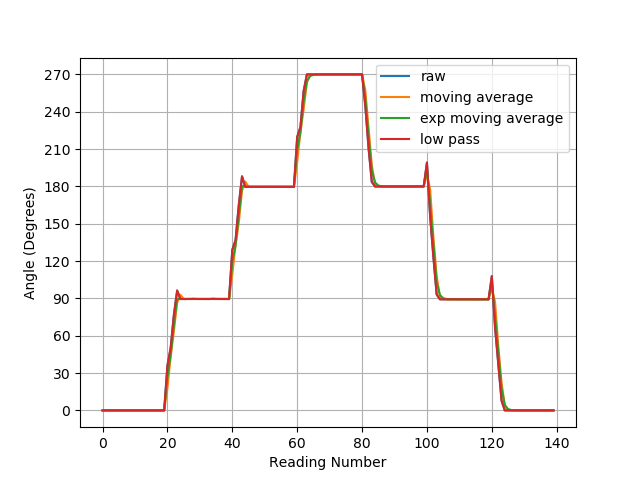
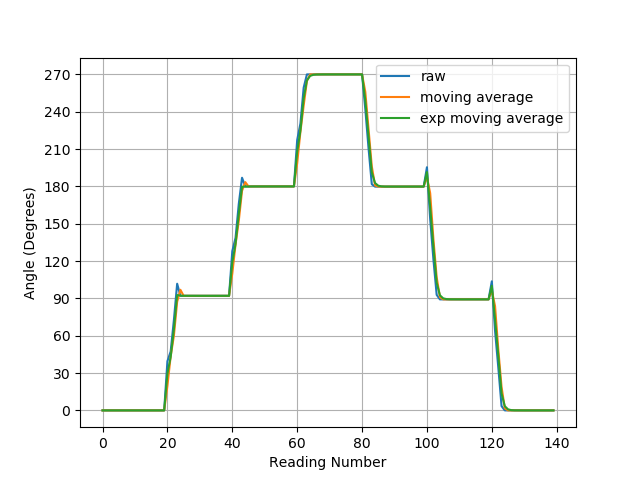
Add filters + Results

diff --git a/ros_servo/src/Servo_Publisher.py b/ros_servo/src/Servo_Publisher.py
@@ -164,7 +164,7 @@ class Servo:
         plt.plot(raw_angle_list, label='raw')
         plt.plot(moving_average_list, label='moving average')
         plt.plot(exp_average_list, label='exp moving average')
-        plt.plot(low_pass_list, label='low pass')
+        # plt.plot(low_pass_list, label='low pass')
         plt.xlabel('Reading Number')
         plt.ylabel('Angle (Degrees)')
         plt.legend()
